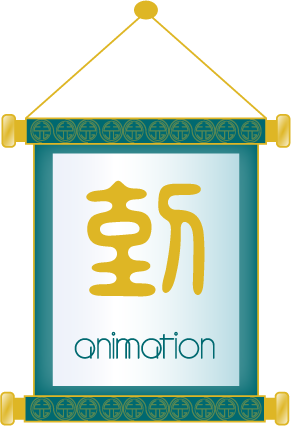
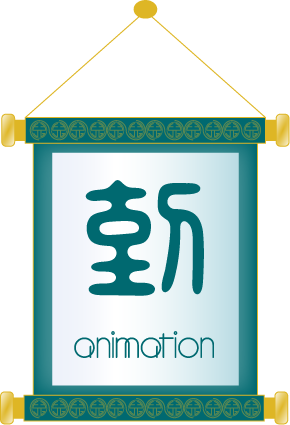
update

diff --git a/index.html b/index.html
@@ -13,7 +13,7 @@
         <link rel="stylesheet" href="style.css"> <!-- link custom CSS -->
         <style>
             .void {
-                height: 1080px;
+                height: 900px;
                 width: 100%;
                 background-color: grey;
             }
@@ -21,6 +21,7 @@
     </head>
 
     <body>
+        <!-- Navbar -->
         <nav>
             <ul>
                 <li><a href="index.html">home</a></li>
@@ -28,11 +29,16 @@
                 <li><a href="work-gd.html">work</a></li>
             </ul>
         </nav>
+
+        <!-- Recent work showcase -->
         <div class="container-fluid">
             <div class="void"></div>
         </div>
+
+        <!-- Greetings -->
         <div class="marquee" style="margin-top: 80px;">
             <div class="marquee-content">
+              <img src="image/line.png" alt="Marquee Image">
               <img src="image/line.png" alt="Marquee Image">
               <img src="image/line.png" alt="Marquee Image">
               <img src="image/line.png" alt="Marquee Image">
@@ -46,7 +52,8 @@
             </div>
         </div>
 
-        <div class="container" style="margin-top: 100px;">
+        <!-- About -->
+        <div class="container" style="margin-top: 70px; margin-bottom: 100px;">
             <div class="row">
                 <div class="col-xs-12 col-md-5">
                     <img src="image/nhi.jpg" width="100%" class="img-responsive">
@@ -60,14 +67,15 @@
             </div>
         </div>
 
-        <footer>
+        <!-- Footer -->
+        <div class="foot">
             <img src="image/Untitled-1.gif" style="width: 100%;">
             <div class="container">
                 <div class="row">
                     <div class="col-xs-12 col-md-6">
                         <h1>Contact</h1>
                     </div>
-                    <div class="col-xs-12 col-md-6" style="text-align: right;">
+                    <div class="iconfoot col-xs-12 col-md-6">
                         <a href=""><img src="image/behance.svg" class="symBehance"></a>
                         <a href=""><img src="image/website.svg" class="symWebsite"></a>
                         <a href=""><img src="image/mail.svg" class="symMail"></a>
@@ -76,7 +84,7 @@
                 </div>
                 <p style="font-size: 14px; color: aliceblue; padding: 30px; text-align: center;">&#169 Ly Ngoc Nhi, 2025</p>
             </div>
-        </footer>
+        </div>
     </body>
 </html>
 

diff --git a/work-dd.html b/work-dd.html
@@ -38,14 +38,12 @@
             width: 10vw;
             max-width: 100%;
             transition: transform 0.2s ease-in-out;
-            animation: wiggle 4s infinite ease-in-out;
+            animation: wiggle 4s infinite ease-out;
         }
 
-        .gd {
+        .dd {
             animation: none;
-            transform: none;
         }
-
         @keyframes wiggle {
             0% { transform: rotate(0deg); }
             25% { transform: rotate(-5deg); }
@@ -190,9 +188,9 @@
         </svg>
         <!-- Wiggle images -->
         <div class="wiggle-container">
-            <img src="image/graphic1.png" class="gd wiggle">
+            <a href="work-gd.html"><img src="image/graphic.png" class="gd wiggle"></a>
             <a href="work-an.html"><img src="image/animation.png" class="an wiggle" style="padding-top: 10px;"></a>
-            <a href="work-dd.html"><img src="image/2d3d.png" class="dd wiggle" style="padding-top: 10px;"></a>
+            <img src="image/2d3d1.png" class="dd wiggle" style="padding-top: 10px;">
             <a href="work-ot.html"><img src="image/other.png" class="ot wiggle"></a>
         </div>
     </div>

diff --git a/work-ot.html b/work-ot.html
@@ -38,14 +38,12 @@
             width: 10vw;
             max-width: 100%;
             transition: transform 0.2s ease-in-out;
-            animation: wiggle 4s infinite ease-in-out;
+            animation: wiggle 4s infinite ease-out;
         }
 
-        .gd {
+        .ot {
             animation: none;
-            transform: none;
         }
-
         @keyframes wiggle {
             0% { transform: rotate(0deg); }
             25% { transform: rotate(-5deg); }
@@ -190,10 +188,10 @@
         </svg>
         <!-- Wiggle images -->
         <div class="wiggle-container">
-            <img src="image/graphic1.png" class="gd wiggle">
+            <a href="work-gd.html"><img src="image/graphic.png" class="gd wiggle"></a>
             <a href="work-an.html"><img src="image/animation.png" class="an wiggle" style="padding-top: 10px;"></a>
             <a href="work-dd.html"><img src="image/2d3d.png" class="dd wiggle" style="padding-top: 10px;"></a>
-            <a href="work-ot.html"><img src="image/other.png" class="ot wiggle"></a>
+            <img src="image/other1.png" class="ot wiggle">
         </div>
     </div>
 

diff --git a/work-an.html b/work-an.html
@@ -38,12 +38,11 @@
             width: 10vw;
             max-width: 100%;
             transition: transform 0.2s ease-in-out;
-            animation: wiggle 4s infinite ease-in-out;
+            animation: wiggle 4s infinite ease-out;
         }
 
-        .gd {
+        .an {
             animation: none;
-            transform: none;
         }
 
         @keyframes wiggle {
@@ -190,8 +189,8 @@
         </svg>
         <!-- Wiggle images -->
         <div class="wiggle-container">
-            <img src="image/graphic1.png" class="gd wiggle">
-            <a href="work-an.html"><img src="image/animation.png" class="an wiggle" style="padding-top: 10px;"></a>
+            <a href="work-gd.html"><img src="image/graphic.png" class="gd wiggle"></a>
+            <img src="image/animation1.png" class="an wiggle" style="padding-top: 10px;">
             <a href="work-dd.html"><img src="image/2d3d.png" class="dd wiggle" style="padding-top: 10px;"></a>
             <a href="work-ot.html"><img src="image/other.png" class="ot wiggle"></a>
         </div>

diff --git a/style.css b/style.css
@@ -3,6 +3,21 @@ body{
   padding: 0;
   width: 100%;
   background-color: #E0F2F4;
+  display: flex;
+  flex-direction: column;
+  min-height: 100vh;
+}
+
+html, body {
+  height: 100%;
+  margin: 0;
+  padding: 0;
+  display: flex;
+  flex-direction: column;
+}
+
+.container-fluid {
+  flex: 1; /* Ensures the main content takes up remaining space */
 }
 
 h1{
@@ -120,7 +135,7 @@ nav ul li a:hover {
     position: relative;
     width: 100%;
     overflow: hidden;
-    padding: 10px 0;
+    padding: 30px 0;
 }
 
 .marquee-content {
@@ -143,9 +158,13 @@ nav ul li a:hover {
 }
 
 /* Footer */
-footer{
+.foot{
     background-color: #006970;
-    margin-top: 100px;
+    margin-top: 0;
+}
+
+.foot .container {
+  margin-top: 80px;
 }
 
 img.symBehance,
@@ -155,8 +174,19 @@ img.symPhone {
   width: 60px;
 }
 
+.iconfoot{
+  text-align: right;
+}
+
 @media (max-width: 800px) {
   nav{
-    top: 83%;
+    top: 84%;
+  }
+  .foot .container{
+    margin-bottom: 100px;
+  }
+  .iconfoot{
+    margin-top: 10px;
+    text-align: left;
   }
 }
